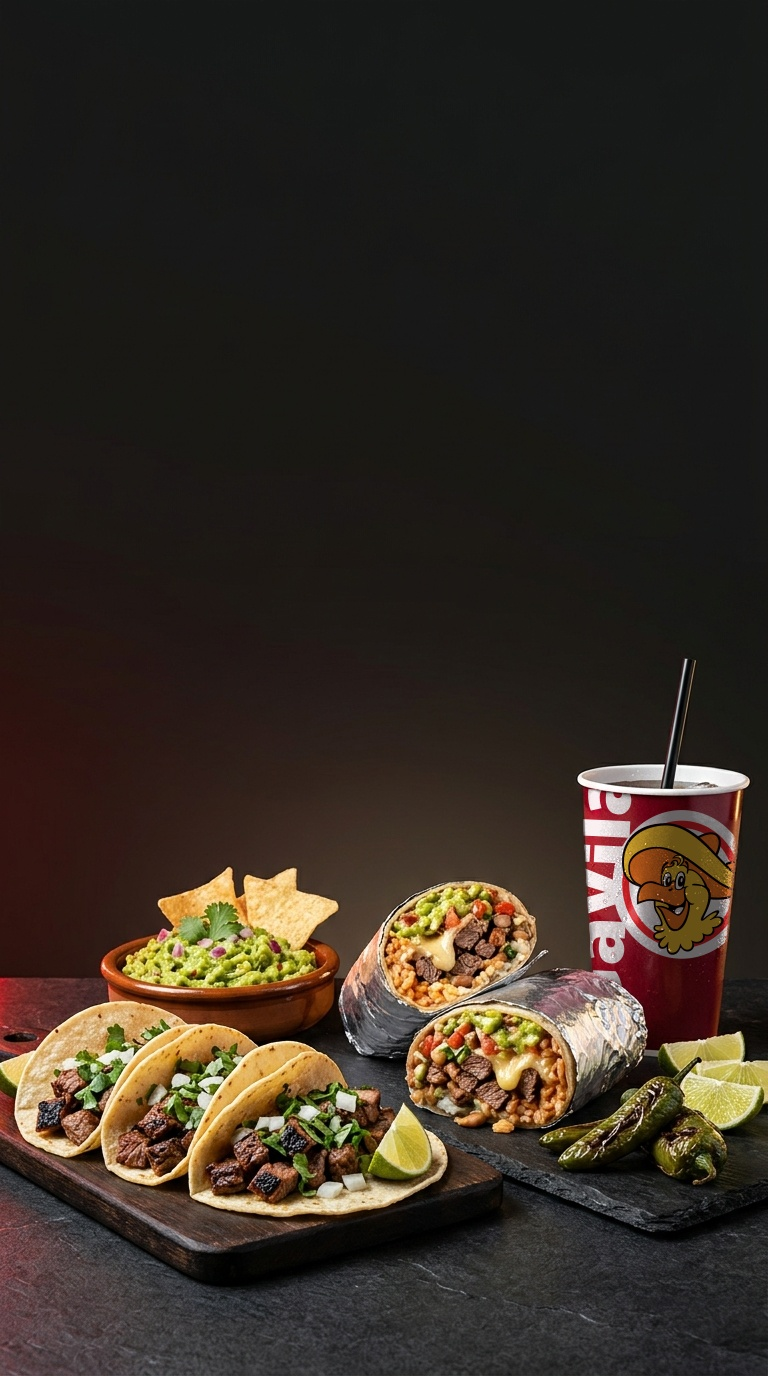
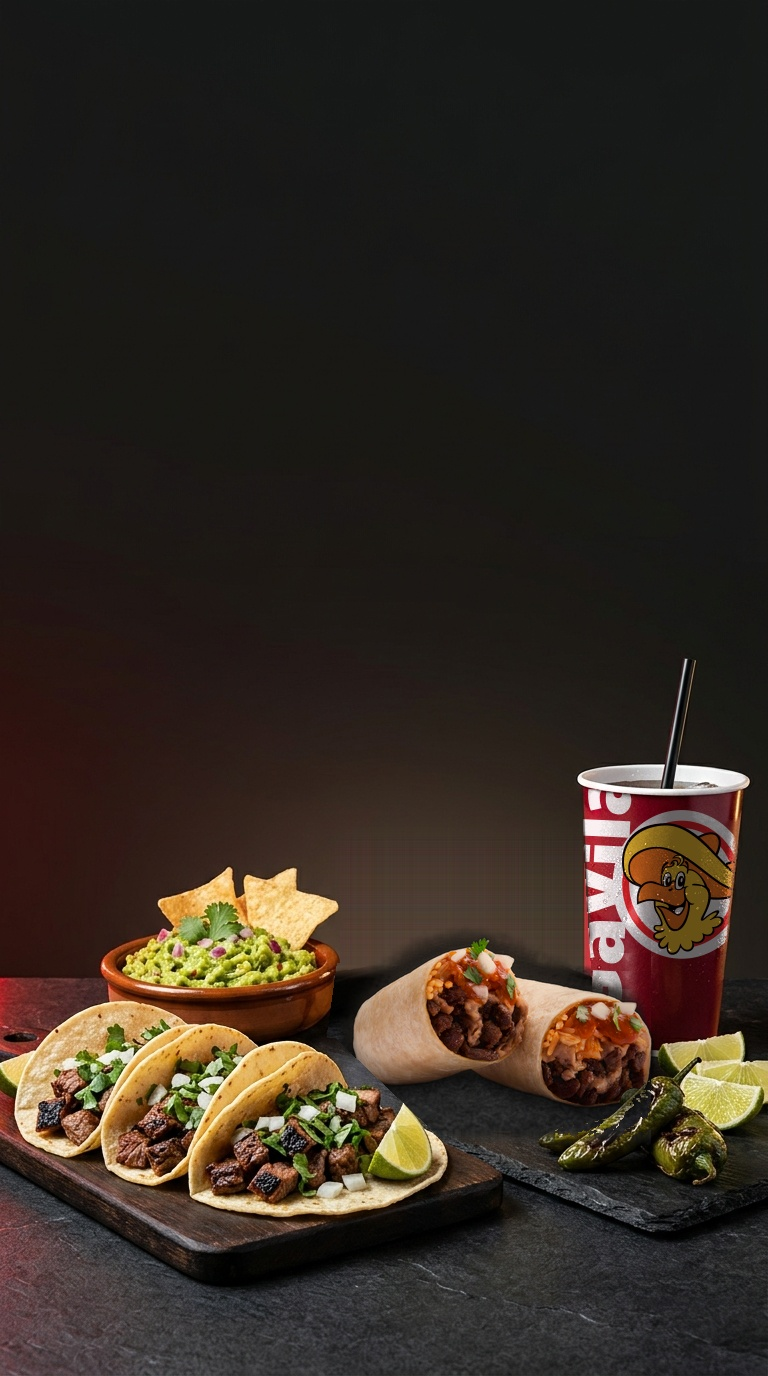
fix(customer-app): replace AI foil burrito with real Tacos Gavilan burrito on Slide 5 and move headline text to top

Changed region(s): [[0.4375, 0.625, 0.875, 0.8438]]

diff --git a/components/CustomerAppV2Pro.tsx b/components/CustomerAppV2Pro.tsx
@@ -1169,7 +1169,7 @@ export default function CustomerAppV2Pro({
       },
       {
         id: 'order-ahead',
-        image: '/app-v2/slide-4-hero.jpg?v=3',
+        image: '/app-v2/slide-4-hero.jpg?v=4',
         lightLeakSide: 'left' as const,
         kicker: lang === 'en' ? 'YA ESTÁ. READY WHEN YOU ARE' : 'YA ESTÁ. LISTO CUANDO LLEGUES',
         lines:
@@ -1307,8 +1307,14 @@ export default function CustomerAppV2Pro({
                     alt={activeSlide.kicker}
                     className="w-full h-full object-cover object-center"
                   />
-                  {/* Moody Top & Bottom Vignette for 100% Text Legibility */}
-                  <div className="absolute inset-0 bg-gradient-to-b from-black/85 via-black/35 to-black/90" />
+                  {/* Moody Top & Bottom Vignette for 100% Text Legibility (lighter bottom on Slide 5 so food shines unobstructed) */}
+                  <div
+                    className={`absolute inset-0 ${
+                      storyIndex === 4
+                        ? 'bg-gradient-to-b from-black/80 via-black/10 to-black/40'
+                        : 'bg-gradient-to-b from-black/85 via-black/35 to-black/90'
+                    }`}
+                  />
 
                   {/* Signature Coffee Bean Warm Neon Light-Leak Edge Glow */}
                   <div
@@ -1372,13 +1378,17 @@ export default function CustomerAppV2Pro({
               </div>
 
               {/* Middle Content Area: Interactive Cards + Staggered Kinetic Typography */}
-              <div className="relative z-20 flex-1 flex flex-col justify-between px-6 py-4">
+              <div
+                className={`relative z-20 flex-1 flex flex-col px-6 py-4 ${
+                  storyIndex === 4 ? 'justify-start pt-2' : 'justify-between'
+                }`}
+              >
                 {/* Interactive Overlay Cards per Slide (Matching Coffee Bean Video 00:08 - 00:19) */}
-                <div className="mt-2">
+                <div className={storyIndex === 4 ? 'mb-3' : 'mt-2'}>
                   <AnimatePresence mode="wait">
-                    {storyIndex === 0 && (
+                    {(storyIndex === 0 || storyIndex === 4) && (
                       <motion.div
-                        key="slide0-badge"
+                        key={`slide-${storyIndex}-badge`}
                         initial={{ opacity: 0, y: 15 }}
                         animate={{ opacity: 1, y: 0 }}
                         exit={{ opacity: 0 }}
@@ -2037,9 +2047,9 @@ export default function CustomerAppV2Pro({
                     {/* Full-bleed Hero Poster (00:45 - 00:55 of Coffee Bean) */}
                     <div className="relative w-full h-[400px] overflow-hidden">
                       <img
-                        src="/app-v2/slide-4-hero.jpg?v=3"
+                        src="/app-v2/slide-4-hero.jpg?v=4"
                         alt="Tacos Gavilan Hero"
-                        className="w-full h-full object-cover object-center"
+                        className="w-full h-full object-cover object-bottom"
                       />
                       <div className="absolute inset-0 bg-gradient-to-b from-black/80 via-black/25 to-[#121212]" />
 
